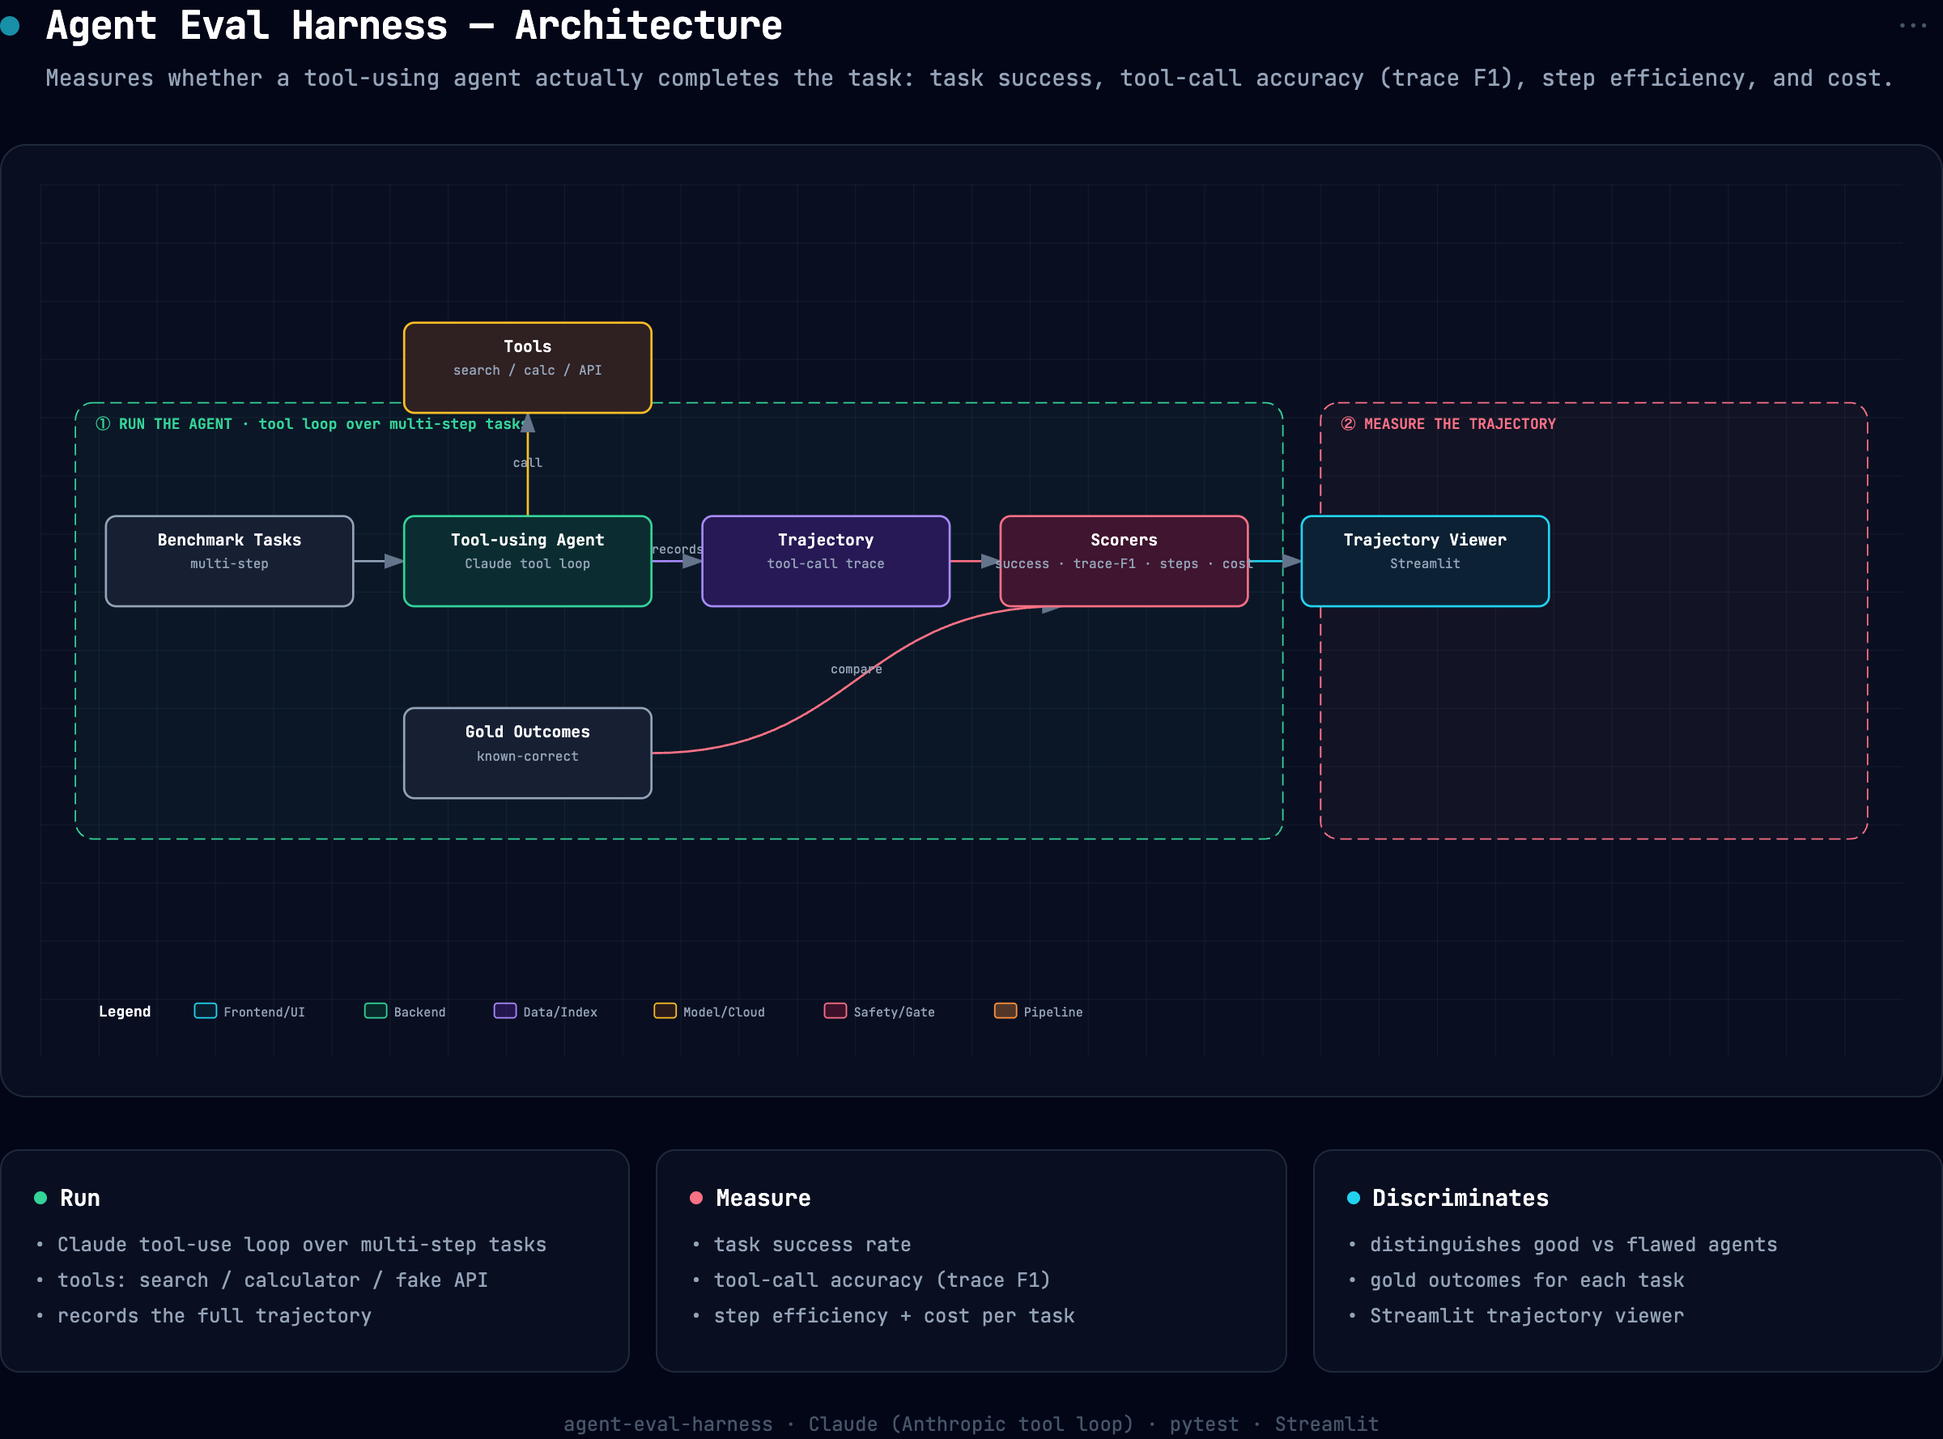
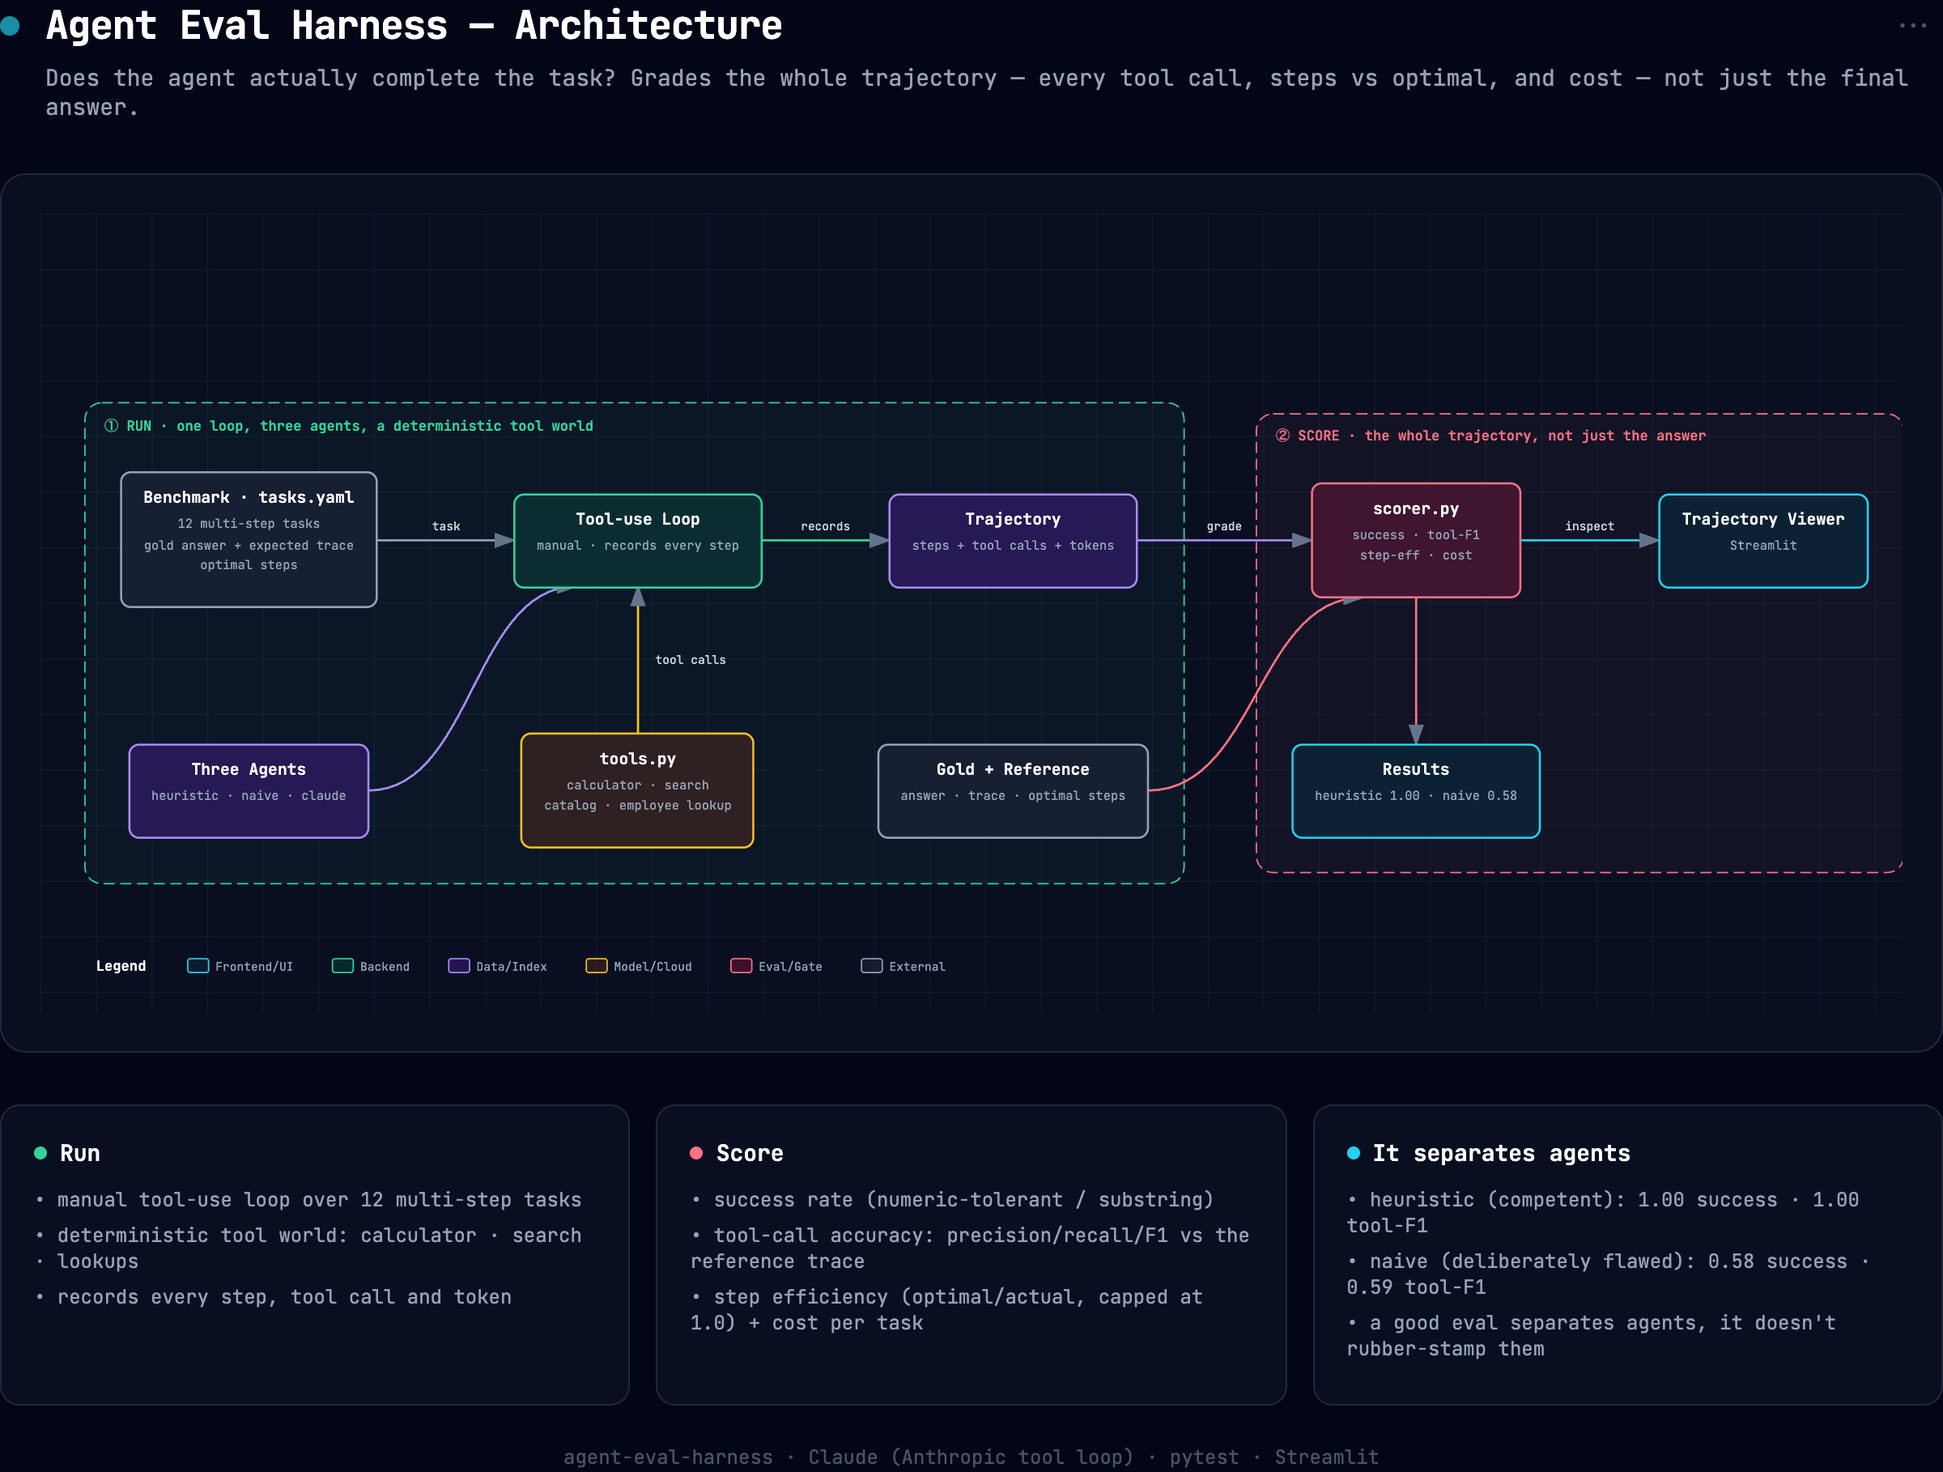
docs: rebuild architecture diagram — fix text overflow, label collisions, region straddle
Same defect family as active-learning, now caught by the generator's assertions:
- the Scorers sublabel overflowed its box on both sides -> boxes auto-widen to their
  longest line and the build fails if any string still doesn't fit
- the 'records' label collided with the Trajectory box -> labels render only in a verified
  clear gap between the two boxes
- the Tools box sat half outside the green region -> regions are computed from their
  members, so a straddling box fails the build
- trimmed the dead band below the diagram

Content re-grounded in this repo's README: the real 12-task benchmark (prompt, gold answer,
expected tool trace, optimal steps), the three agents that share one scorer (heuristic 1.00
vs naive 0.58), the deterministic tool world (calculator/search/catalog/employee lookup),
and the four metrics scorer.py actually computes.

diff --git a/docs/assets/architecture.html b/docs/assets/architecture.html
@@ -185,66 +185,82 @@
     <div class="header"><div class="header-row"><div class="pulse-dot"></div>
       <h1>Agent Eval Harness — Architecture</h1>
       <div class="toolbar"><div class="toolbar-actions"><button onclick="copyAsImage(this)">📋 Copy</button><button onclick="downloadPNG(this)">🖼 PNG</button><button onclick="downloadPDF(this)">📄 PDF</button></div><button class="toolbar-toggle" onclick="this.parentElement.classList.toggle('expanded')">⋯</button></div>
-    </div><p class="subtitle">Measures whether a tool-using agent actually completes the task: task success, tool-call accuracy (trace F1), step efficiency, and cost.</p></div>
-    <div class="diagram-container"><svg viewBox="0 0 1280 600">
+    </div><p class="subtitle">Does the agent actually complete the task? Grades the whole trajectory — every tool call, steps vs optimal, and cost — not just the final answer.</p></div>
+    <div class="diagram-container"><svg viewBox="0 0 1340 575">
 <defs><marker id="arrowhead" markerWidth="10" markerHeight="7" refX="9" refY="3.5" orient="auto"><polygon points="0 0, 10 3.5, 0 7" fill="#64748b"/></marker><marker id="loop" markerWidth="11" markerHeight="8" refX="9" refY="4" orient="auto"><polygon points="0 0, 11 4, 0 8" fill="#22d3ee"/></marker><pattern id="grid" width="40" height="40" patternUnits="userSpaceOnUse"><path d="M 40 0 L 0 0 0 40" fill="none" stroke="#1e293b" stroke-width="0.5"/></pattern></defs>
-<rect width="1280" height="600" fill="url(#grid)"/>
-<rect x="24" y="150" width="830" height="300" rx="12" fill="rgba(52,211,153,0.04)" stroke="#34d399" stroke-width="1" stroke-dasharray="8,4"/>
-<text x="38" y="168" fill="#34d399" font-size="10" font-weight="600">① RUN THE AGENT  ·  tool loop over multi-step tasks</text>
-<rect x="880" y="150" width="376" height="300" rx="12" fill="rgba(251,113,133,0.04)" stroke="#fb7185" stroke-width="1" stroke-dasharray="8,4"/>
-<text x="894" y="168" fill="#fb7185" font-size="10" font-weight="600">② MEASURE THE TRAJECTORY</text>
-<line x1="215" y1="259" x2="250" y2="259" stroke="#94a3b8" stroke-width="1.5" marker-end="url(#arrowhead)"/>
-<line x1="335" y1="228" x2="335" y2="157" stroke="#fbbf24" stroke-width="1.5" marker-end="url(#arrowhead)"/>
-<text x="335" y="194" fill="#94a3b8" font-size="8.5" text-anchor="middle">call</text>
-<line x1="420" y1="259" x2="455" y2="259" stroke="#a78bfa" stroke-width="1.5" marker-end="url(#arrowhead)"/>
-<text x="438" y="254" fill="#94a3b8" font-size="8.5" text-anchor="middle">records</text>
-<line x1="625" y1="259" x2="660" y2="259" stroke="#fb7185" stroke-width="1.5" marker-end="url(#arrowhead)"/>
-<path d="M 420 391 C 561 391, 561 290, 702 290" fill="none" stroke="#fb7185" stroke-width="1.5" marker-end="url(#arrowhead)"/>
-<text x="561" y="336" fill="#94a3b8" font-size="8.5" text-anchor="middle">compare</text>
-<line x1="830" y1="259" x2="867" y2="259" stroke="#22d3ee" stroke-width="1.5" marker-end="url(#arrowhead)"/>
-<rect x="45" y="228" width="170" height="62" rx="7" fill="#0f172a"/>
-<rect x="45" y="228" width="170" height="62" rx="7" fill="rgba(30, 41, 59, 0.5)" stroke="#94a3b8" stroke-width="1.5"/>
-<text x="130" y="248" fill="#fff" font-size="11" font-weight="600" text-anchor="middle">Benchmark Tasks</text>
-<text x="130" y="264" fill="#94a3b8" font-size="9" text-anchor="middle">multi-step</text>
-<rect x="250" y="95" width="170" height="62" rx="7" fill="#0f172a"/>
-<rect x="250" y="95" width="170" height="62" rx="7" fill="rgba(120, 53, 15, 0.3)" stroke="#fbbf24" stroke-width="1.5"/>
-<text x="335" y="115" fill="#fff" font-size="11" font-weight="600" text-anchor="middle">Tools</text>
-<text x="335" y="131" fill="#94a3b8" font-size="9" text-anchor="middle">search / calc / API</text>
-<rect x="250" y="228" width="170" height="62" rx="7" fill="#0f172a"/>
-<rect x="250" y="228" width="170" height="62" rx="7" fill="rgba(6, 78, 59, 0.4)" stroke="#34d399" stroke-width="1.5"/>
-<text x="335" y="248" fill="#fff" font-size="11" font-weight="600" text-anchor="middle">Tool-using Agent</text>
-<text x="335" y="264" fill="#94a3b8" font-size="9" text-anchor="middle">Claude tool loop</text>
-<rect x="250" y="360" width="170" height="62" rx="7" fill="#0f172a"/>
-<rect x="250" y="360" width="170" height="62" rx="7" fill="rgba(30, 41, 59, 0.5)" stroke="#94a3b8" stroke-width="1.5"/>
-<text x="335" y="380" fill="#fff" font-size="11" font-weight="600" text-anchor="middle">Gold Outcomes</text>
-<text x="335" y="396" fill="#94a3b8" font-size="9" text-anchor="middle">known-correct</text>
-<rect x="455" y="228" width="170" height="62" rx="7" fill="#0f172a"/>
-<rect x="455" y="228" width="170" height="62" rx="7" fill="rgba(76, 29, 149, 0.4)" stroke="#a78bfa" stroke-width="1.5"/>
-<text x="540" y="248" fill="#fff" font-size="11" font-weight="600" text-anchor="middle">Trajectory</text>
-<text x="540" y="264" fill="#94a3b8" font-size="9" text-anchor="middle">tool-call trace</text>
-<rect x="660" y="228" width="170" height="62" rx="7" fill="#0f172a"/>
-<rect x="660" y="228" width="170" height="62" rx="7" fill="rgba(136, 19, 55, 0.4)" stroke="#fb7185" stroke-width="1.5"/>
-<text x="745" y="248" fill="#fff" font-size="11" font-weight="600" text-anchor="middle">Scorers</text>
-<text x="745" y="264" fill="#94a3b8" font-size="9" text-anchor="middle">success · trace-F1 · steps · cost</text>
-<rect x="867" y="228" width="170" height="62" rx="7" fill="#0f172a"/>
-<rect x="867" y="228" width="170" height="62" rx="7" fill="rgba(8, 51, 68, 0.4)" stroke="#22d3ee" stroke-width="1.5"/>
-<text x="952" y="248" fill="#fff" font-size="11" font-weight="600" text-anchor="middle">Trajectory Viewer</text>
-<text x="952" y="264" fill="#94a3b8" font-size="9" text-anchor="middle">Streamlit</text>
-<text x="40" y="572" fill="#fff" font-size="10" font-weight="600">Legend</text>
-<rect x="106" y="563" width="15" height="10" rx="2" fill="rgba(8, 51, 68, 0.4)" stroke="#22d3ee" stroke-width="1"/>
-<text x="126" y="572" fill="#94a3b8" font-size="8.5">Frontend/UI</text>
-<rect x="223" y="563" width="15" height="10" rx="2" fill="rgba(6, 78, 59, 0.4)" stroke="#34d399" stroke-width="1"/>
-<text x="243" y="572" fill="#94a3b8" font-size="8.5">Backend</text>
-<rect x="312" y="563" width="15" height="10" rx="2" fill="rgba(76, 29, 149, 0.4)" stroke="#a78bfa" stroke-width="1"/>
-<text x="332" y="572" fill="#94a3b8" font-size="8.5">Data/Index</text>
-<rect x="422" y="563" width="15" height="10" rx="2" fill="rgba(120, 53, 15, 0.3)" stroke="#fbbf24" stroke-width="1"/>
-<text x="442" y="572" fill="#94a3b8" font-size="8.5">Model/Cloud</text>
-<rect x="539" y="563" width="15" height="10" rx="2" fill="rgba(136, 19, 55, 0.4)" stroke="#fb7185" stroke-width="1"/>
-<text x="559" y="572" fill="#94a3b8" font-size="8.5">Safety/Gate</text>
-<rect x="656" y="563" width="15" height="10" rx="2" fill="rgba(251, 146, 60, 0.3)" stroke="#fb923c" stroke-width="1"/>
-<text x="676" y="572" fill="#94a3b8" font-size="8.5">Pipeline</text>
+<rect width="1340" height="575" fill="url(#grid)"/>
+<rect x="32" y="136" width="791" height="346" rx="12" fill="rgba(52,211,153,0.04)" stroke="#34d399" stroke-width="1" stroke-dasharray="8,4"/>
+<text x="46" y="156" fill="#34d399" font-size="10" font-weight="600">① RUN  ·  one loop, three agents, a deterministic tool world</text>
+<rect x="875" y="144" width="466" height="330" rx="12" fill="rgba(251,113,133,0.04)" stroke="#fb7185" stroke-width="1" stroke-dasharray="8,4"/>
+<text x="889" y="163" fill="#fb7185" font-size="10" font-weight="600">② SCORE  ·  the whole trajectory, not just the answer</text>
+<line x1="242" y1="235" x2="341" y2="235" stroke="#94a3b8" stroke-width="1.6" marker-end="url(#arrowhead)"/>
+<text x="292" y="228" fill="#cbd5e1" font-size="8.5" text-anchor="middle">task</text>
+<path d="M 236 415 C 311 415, 311 268, 386 268" fill="none" stroke="#a78bfa" stroke-width="1.6" marker-end="url(#arrowhead)"/>
+<line x1="430" y1="374" x2="430" y2="268" stroke="#fbbf24" stroke-width="1.6" marker-end="url(#arrowhead)"/>
+<text x="468" y="324" fill="#cbd5e1" font-size="8.5" text-anchor="middle">tool calls</text>
+<line x1="519" y1="235" x2="611" y2="235" stroke="#34d399" stroke-width="1.6" marker-end="url(#arrowhead)"/>
+<text x="565" y="228" fill="#cbd5e1" font-size="8.5" text-anchor="middle">records</text>
+<line x1="789" y1="235" x2="915" y2="235" stroke="#a78bfa" stroke-width="1.6" marker-end="url(#arrowhead)"/>
+<text x="852" y="228" fill="#cbd5e1" font-size="8.5" text-anchor="middle">grade</text>
+<path d="M 797 415 C 875 415, 875 276, 952 276" fill="none" stroke="#fb7185" stroke-width="1.6" marker-end="url(#arrowhead)"/>
+<line x1="990" y1="276" x2="990" y2="382" stroke="#fb7185" stroke-width="1.6" marker-end="url(#arrowhead)"/>
+<line x1="1065" y1="235" x2="1165" y2="235" stroke="#22d3ee" stroke-width="1.6" marker-end="url(#arrowhead)"/>
+<text x="1115" y="228" fill="#cbd5e1" font-size="8.5" text-anchor="middle">inspect</text>
+<rect x="58" y="186" width="184" height="97" rx="7" fill="#0f172a"/>
+<rect x="58" y="186" width="184" height="97" rx="7" fill="rgba(30, 41, 59, 0.5)" stroke="#94a3b8" stroke-width="1.5"/>
+<text x="150" y="208" fill="#fff" font-size="11.5" font-weight="600" text-anchor="middle">Benchmark · tasks.yaml</text>
+<text x="150" y="226" fill="#94a3b8" font-size="9.0" text-anchor="middle">12 multi-step tasks</text>
+<text x="150" y="242" fill="#94a3b8" font-size="9.0" text-anchor="middle">gold answer + expected trace</text>
+<text x="150" y="256" fill="#94a3b8" font-size="9.0" text-anchor="middle">optimal steps</text>
+<rect x="64" y="382" width="172" height="67" rx="7" fill="#0f172a"/>
+<rect x="64" y="382" width="172" height="67" rx="7" fill="rgba(76, 29, 149, 0.4)" stroke="#a78bfa" stroke-width="1.5"/>
+<text x="150" y="404" fill="#fff" font-size="11.5" font-weight="600" text-anchor="middle">Three Agents</text>
+<text x="150" y="422" fill="#94a3b8" font-size="9.0" text-anchor="middle">heuristic · naive · claude</text>
+<rect x="341" y="202" width="178" height="67" rx="7" fill="#0f172a"/>
+<rect x="341" y="202" width="178" height="67" rx="7" fill="rgba(6, 78, 59, 0.4)" stroke="#34d399" stroke-width="1.5"/>
+<text x="430" y="224" fill="#fff" font-size="11.5" font-weight="600" text-anchor="middle">Tool-use Loop</text>
+<text x="430" y="242" fill="#94a3b8" font-size="9.0" text-anchor="middle">manual · records every step</text>
+<rect x="346" y="374" width="167" height="82" rx="7" fill="#0f172a"/>
+<rect x="346" y="374" width="167" height="82" rx="7" fill="rgba(120, 53, 15, 0.3)" stroke="#fbbf24" stroke-width="1.5"/>
+<text x="430" y="396" fill="#fff" font-size="11.5" font-weight="600" text-anchor="middle">tools.py</text>
+<text x="430" y="414" fill="#94a3b8" font-size="9.0" text-anchor="middle">calculator · search</text>
+<text x="430" y="429" fill="#94a3b8" font-size="9.0" text-anchor="middle">catalog · employee lookup</text>
+<rect x="611" y="202" width="178" height="67" rx="7" fill="#0f172a"/>
+<rect x="611" y="202" width="178" height="67" rx="7" fill="rgba(76, 29, 149, 0.4)" stroke="#a78bfa" stroke-width="1.5"/>
+<text x="700" y="224" fill="#fff" font-size="11.5" font-weight="600" text-anchor="middle">Trajectory</text>
+<text x="700" y="242" fill="#94a3b8" font-size="9.0" text-anchor="middle">steps + tool calls + tokens</text>
+<rect x="603" y="382" width="194" height="67" rx="7" fill="#0f172a"/>
+<rect x="603" y="382" width="194" height="67" rx="7" fill="rgba(30, 41, 59, 0.5)" stroke="#94a3b8" stroke-width="1.5"/>
+<text x="700" y="404" fill="#fff" font-size="11.5" font-weight="600" text-anchor="middle">Gold + Reference</text>
+<text x="700" y="422" fill="#94a3b8" font-size="9.0" text-anchor="middle">answer · trace · optimal steps</text>
+<rect x="915" y="194" width="150" height="82" rx="7" fill="#0f172a"/>
+<rect x="915" y="194" width="150" height="82" rx="7" fill="rgba(136, 19, 55, 0.4)" stroke="#fb7185" stroke-width="1.5"/>
+<text x="990" y="216" fill="#fff" font-size="11.5" font-weight="600" text-anchor="middle">scorer.py</text>
+<text x="990" y="234" fill="#94a3b8" font-size="9.0" text-anchor="middle">success · tool-F1</text>
+<text x="990" y="249" fill="#94a3b8" font-size="9.0" text-anchor="middle">step-eff · cost</text>
+<rect x="901" y="382" width="178" height="67" rx="7" fill="#0f172a"/>
+<rect x="901" y="382" width="178" height="67" rx="7" fill="rgba(8, 51, 68, 0.4)" stroke="#22d3ee" stroke-width="1.5"/>
+<text x="990" y="404" fill="#fff" font-size="11.5" font-weight="600" text-anchor="middle">Results</text>
+<text x="990" y="422" fill="#94a3b8" font-size="9.0" text-anchor="middle">heuristic 1.00 · naive 0.58</text>
+<rect x="1165" y="202" width="150" height="67" rx="7" fill="#0f172a"/>
+<rect x="1165" y="202" width="150" height="67" rx="7" fill="rgba(8, 51, 68, 0.4)" stroke="#22d3ee" stroke-width="1.5"/>
+<text x="1240" y="224" fill="#fff" font-size="11.5" font-weight="600" text-anchor="middle">Trajectory Viewer</text>
+<text x="1240" y="242" fill="#94a3b8" font-size="9.0" text-anchor="middle">Streamlit</text>
+<text x="40" y="545" fill="#fff" font-size="10" font-weight="600">Legend</text>
+<rect x="106" y="536" width="15" height="10" rx="2" fill="rgba(8, 51, 68, 0.4)" stroke="#22d3ee" stroke-width="1"/>
+<text x="126" y="545" fill="#94a3b8" font-size="8.5">Frontend/UI</text>
+<rect x="210.1" y="536" width="15" height="10" rx="2" fill="rgba(6, 78, 59, 0.4)" stroke="#34d399" stroke-width="1"/>
+<text x="230.1" y="545" fill="#94a3b8" font-size="8.5">Backend</text>
+<rect x="293.79999999999995" y="536" width="15" height="10" rx="2" fill="rgba(76, 29, 149, 0.4)" stroke="#a78bfa" stroke-width="1"/>
+<text x="313.79999999999995" y="545" fill="#94a3b8" font-size="8.5">Data/Index</text>
+<rect x="392.79999999999995" y="536" width="15" height="10" rx="2" fill="rgba(120, 53, 15, 0.3)" stroke="#fbbf24" stroke-width="1"/>
+<text x="412.79999999999995" y="545" fill="#94a3b8" font-size="8.5">Model/Cloud</text>
+<rect x="496.9" y="536" width="15" height="10" rx="2" fill="rgba(136, 19, 55, 0.4)" stroke="#fb7185" stroke-width="1"/>
+<text x="516.9" y="545" fill="#94a3b8" font-size="8.5">Eval/Gate</text>
+<rect x="590.8" y="536" width="15" height="10" rx="2" fill="rgba(30, 41, 59, 0.5)" stroke="#94a3b8" stroke-width="1"/>
+<text x="610.8" y="545" fill="#94a3b8" font-size="8.5">External</text>
 </svg></div>
-    <div class="cards"><div class="card"><div class="card-header"><div class="card-dot emerald"></div><h3>Run</h3></div><ul><li>• Claude tool-use loop over multi-step tasks</li><li>• tools: search / calculator / fake API</li><li>• records the full trajectory</li></ul></div><div class="card"><div class="card-header"><div class="card-dot rose"></div><h3>Measure</h3></div><ul><li>• task success rate</li><li>• tool-call accuracy (trace F1)</li><li>• step efficiency + cost per task</li></ul></div><div class="card"><div class="card-header"><div class="card-dot cyan"></div><h3>Discriminates</h3></div><ul><li>• distinguishes good vs flawed agents</li><li>• gold outcomes for each task</li><li>• Streamlit trajectory viewer</li></ul></div></div>
+    <div class="cards"><div class="card"><div class="card-header"><div class="card-dot emerald"></div><h3>Run</h3></div><ul><li>• manual tool-use loop over 12 multi-step tasks</li><li>• deterministic tool world: calculator · search · lookups</li><li>• records every step, tool call and token</li></ul></div><div class="card"><div class="card-header"><div class="card-dot rose"></div><h3>Score</h3></div><ul><li>• success rate (numeric-tolerant / substring)</li><li>• tool-call accuracy: precision/recall/F1 vs the reference trace</li><li>• step efficiency (optimal/actual, capped at 1.0) + cost per task</li></ul></div><div class="card"><div class="card-header"><div class="card-dot cyan"></div><h3>It separates agents</h3></div><ul><li>• heuristic (competent): 1.00 success · 1.00 tool-F1</li><li>• naive (deliberately flawed): 0.58 success · 0.59 tool-F1</li><li>• a good eval separates agents, it doesn't rubber-stamp them</li></ul></div></div>
     <p class="footer">agent-eval-harness · Claude (Anthropic tool loop) · pytest · Streamlit</p>
   </div>
 <script>
